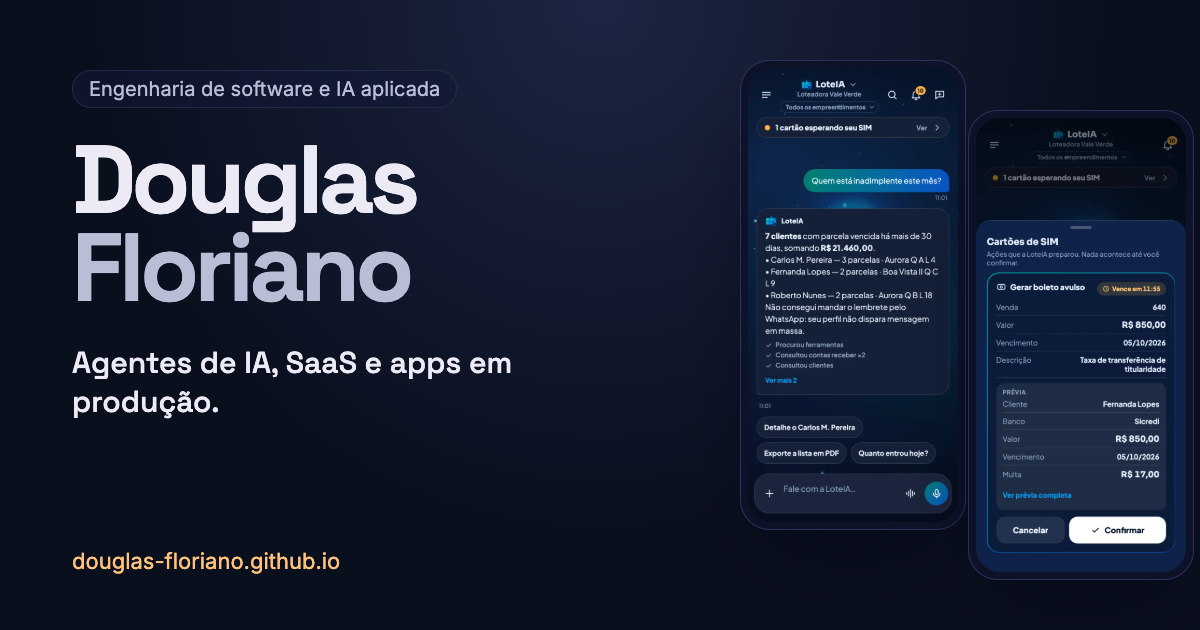
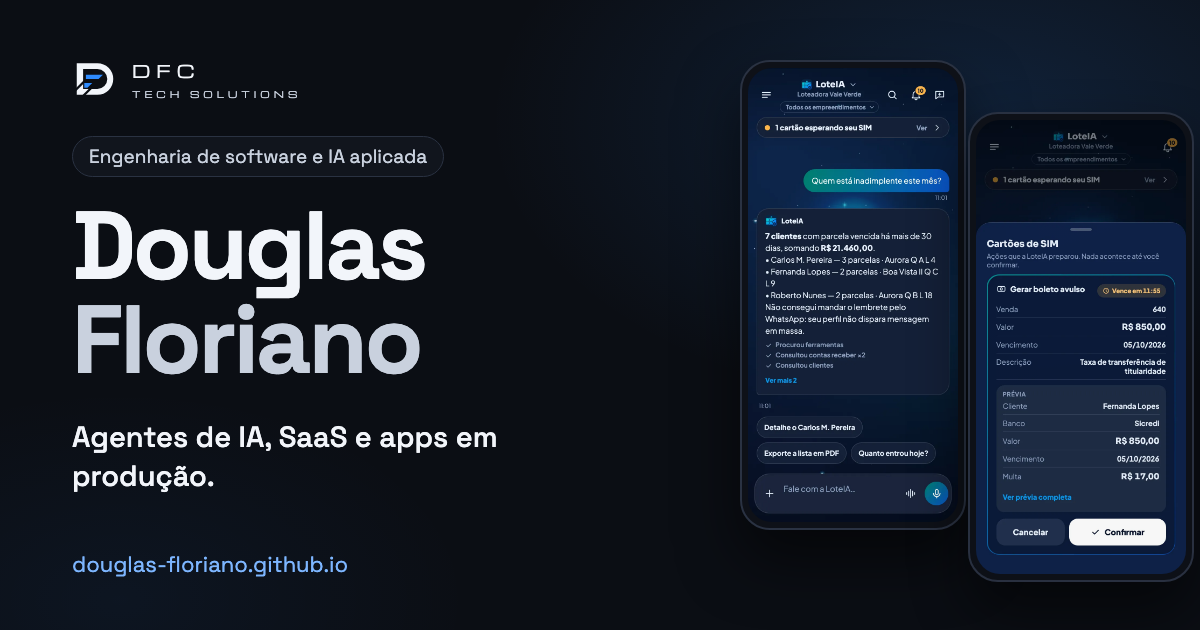
feat: imagem de compartilhamento com a marca DFC

diff --git a/index.html b/index.html
@@ -15,14 +15,14 @@
     <meta property="og:type" content="website" />
     <meta property="og:locale" content="pt_BR" />
     <meta property="og:url" content="https://douglas-floriano.github.io/" />
-    <meta property="og:image" content="https://douglas-floriano.github.io/og.png" />
+    <meta property="og:image" content="https://douglas-floriano.github.io/og.png?v=dfc" />
     <meta property="og:image:width" content="1200" />
     <meta property="og:image:height" content="630" />
     <meta property="og:image:alt" content="Douglas Floriano, engenheiro de software e IA aplicada" />
     <meta name="twitter:card" content="summary_large_image" />
     <meta name="twitter:title" content="Douglas Floriano, IA aplicada e engenharia de software" />
     <meta name="twitter:description" content="Agentes de IA, SaaS e apps em produção." />
-    <meta name="twitter:image" content="https://douglas-floriano.github.io/og.png" />
+    <meta name="twitter:image" content="https://douglas-floriano.github.io/og.png?v=dfc" />
     <link rel="preconnect" href="https://fonts.googleapis.com" />
     <link rel="preconnect" href="https://fonts.gstatic.com" crossorigin />
     <link rel="stylesheet" href="https://fonts.googleapis.com/css2?family=Space+Grotesk:wght@300..700&family=Inter:wght@300..800&family=JetBrains+Mono:wght@400;500&display=swap" />
